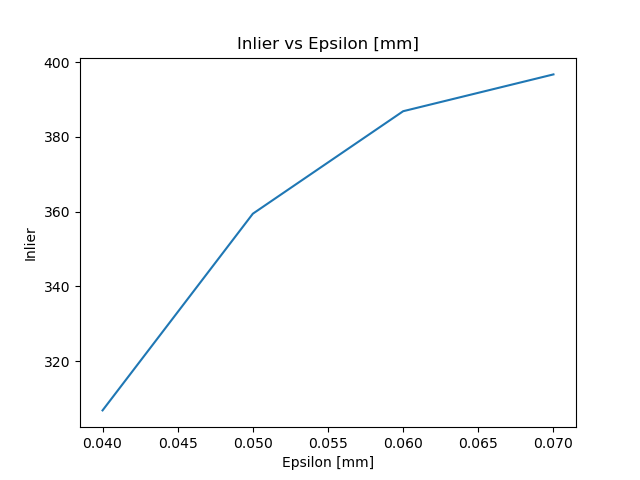
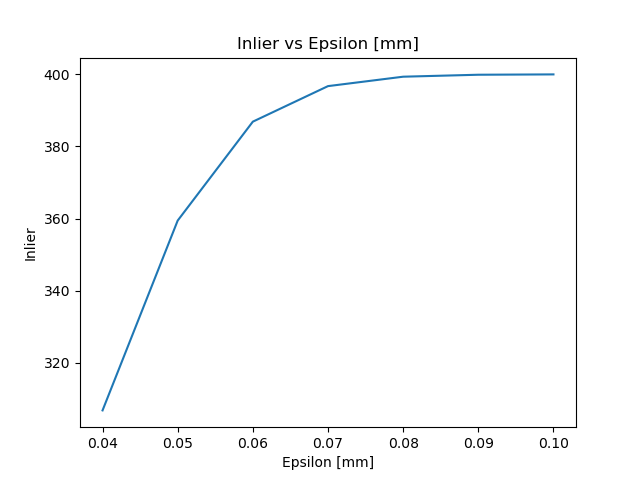
Add new result files and update existing result files

diff --git a/eps_test.py b/eps_test.py
@@ -661,7 +661,8 @@ def estimate_6d_pose_lm(opts, eps=45, itr=400):
 
                         #center_mm_s = Accumulator_3D(xyz, radial_list)
                         offset = np.linalg.norm(center_mm_s-transformed_gt_center_mm)
-                        offsets_w_refinement.append(offset)
+                        if offset < 100:
+                            offsets_w_refinement.append(offset)
                         inliers.append(inlier_count)
 
                         tic = time.time_ns()
@@ -678,7 +679,8 @@ def estimate_6d_pose_lm(opts, eps=45, itr=400):
 
                         #center_mm_s = Accumulator_3D(xyz, radial_list)
                         offset = np.linalg.norm(center_mm_s-transformed_gt_center_mm)
-                        offsets.append(offset)
+                        if offset < 100:
+                            offsets.append(offset)
                        
                         
                            
@@ -961,7 +963,7 @@ if __name__ == "__main__":
     
     opts = parser.parse_args()   
 
-    output_dir = 'results1'
+    output_dir = 'itr_results'
     if not os.path.exists(output_dir):
         os.makedirs(output_dir)
 
@@ -973,8 +975,7 @@ if __name__ == "__main__":
         opts.frontend = 'RANSAC_refine'
 
     if opts.dataset == 'lm':
-        eps = 0.04
-        iterations = 400
+        eps = 0.85
         eps_list = []
         offset_list = []
         offset_list_w_refinement = []
@@ -984,10 +985,11 @@ if __name__ == "__main__":
         fps_list = []
         fps_list_w_refinement = []
         iteration_list = []
-        while eps < 0.1:
+        iterations = [5, 10, 15, 20, 30, 40, 50, 60, 100, 200, 400]
+        for itr in iterations:
             print("Current eps: ", eps)
-            offset, stds, fps, offset_w_refinement, std_w_refinement, fps_w_refinement, inlier = estimate_6d_pose_lm(opts, eps, iterations)
-            iteration_list.append(iterations)
+            offset, stds, fps, offset_w_refinement, std_w_refinement, fps_w_refinement, inlier = estimate_6d_pose_lm(opts, eps, itr)
+            iteration_list.append(itr)
             eps_list.append(eps)
             offset_list.append(offset)
             offset_list_w_refinement.append(offset_w_refinement)
@@ -1080,9 +1082,8 @@ if __name__ == "__main__":
             plt.close()     
 
             with open(os.path.join(output_dir, 'results.txt'), 'a') as f:
-                f.write(f"Epsilon: {eps}, Iterations {iterations}, Offset: {offset}, Offset with Refinement: {offset_w_refinement}, Std: {stds}, Std with Refinement: {std_w_refinement}, Inlier: {inlier}, FPS: {fps}, FPS with Refinement: {fps_w_refinement}\n")
-                
-            eps += 0.01 
+                f.write(f"Epsilon: {eps}, Iterations {itr}, Offset: {offset}, Offset with Refinement: {offset_w_refinement}, Std: {stds}, Std with Refinement: {std_w_refinement}, Inlier: {inlier}, FPS: {fps}, FPS with Refinement: {fps_w_refinement}\n")
+
     if opts.dataset == 'lmo':
         estimate_6d_pose_lmo(opts)
 
